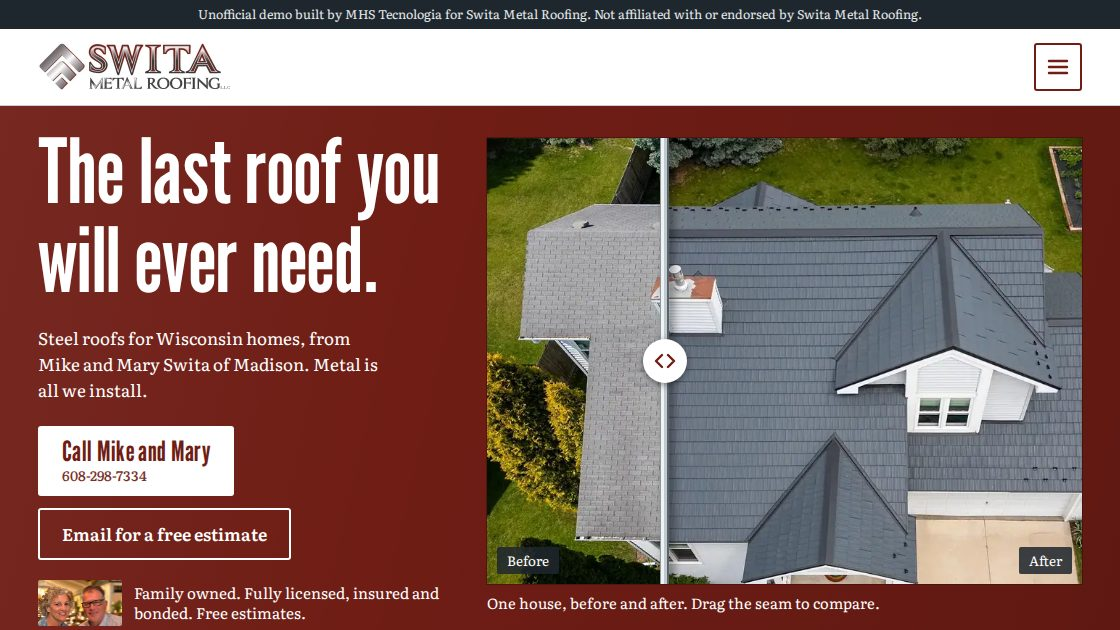
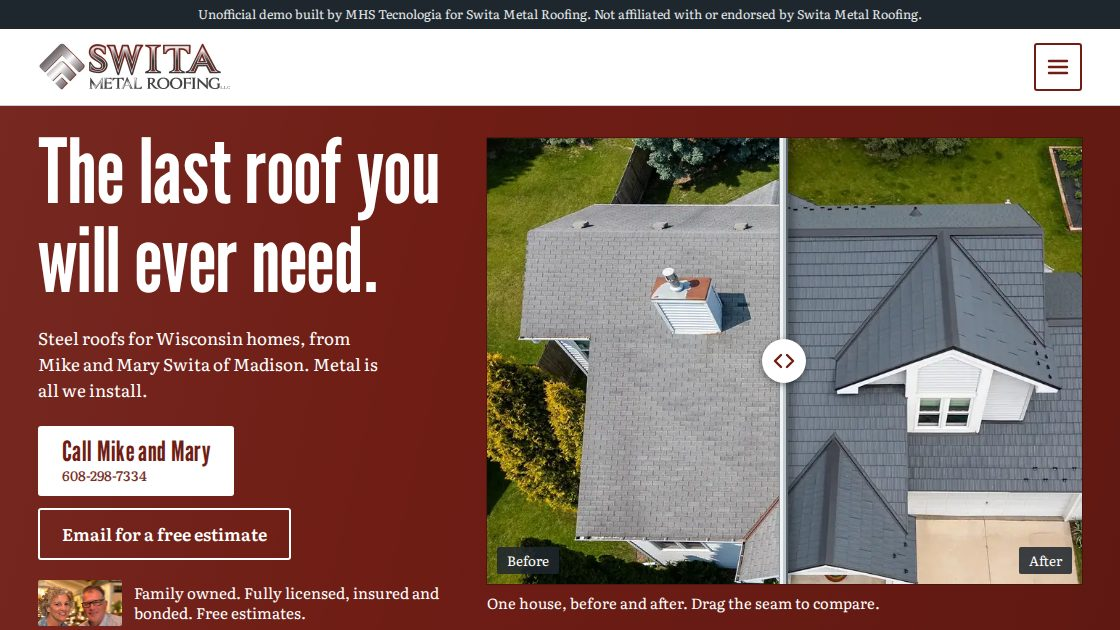
Previews: 62 ativos

Changed region(s): [[0.5625, 0.2111, 0.7188, 0.9349]]

diff --git a/swita-metal-roofing-madison-wi/index.html b/swita-metal-roofing-madison-wi/index.html
@@ -42,12 +42,12 @@
     <p class="owners"><img src="img/rosto-168.webp" srcset="img/rosto-168.webp 168w" sizes="84px" width="168" height="91" alt="Mary and Mike Swita" decoding="async" style="max-width:168px"><span>Family owned. Fully licensed, insured and bonded. Free estimates.</span></p>
   </div>
   <figure class="compare">
-    <div class="frame" style="--x:30%">
+    <div class="frame" style="--x:50%">
       <img class="after" src="img/depois-820.webp" srcset="img/depois-560.webp 560w, img/depois-820.webp 820w, img/depois-1198.webp 1198w" sizes="(max-width:860px) 100vw, 57vw" width="1198" height="898" alt="The same house from the air with a new dark gray steel roof" decoding="async" fetchpriority="high">
       <img class="before" src="img/antes-820.webp" srcset="img/antes-560.webp 560w, img/antes-820.webp 820w, img/antes-1198.webp 1198w" sizes="(max-width:860px) 100vw, 57vw" width="1198" height="898" alt="The same house from the air with its old, worn gray asphalt shingles" decoding="async">
-      <img class="strip" src="img/antes-820.webp" srcset="img/antes-560.webp 560w, img/antes-820.webp 820w, img/antes-1198.webp 1198w" sizes="(max-width:860px) 100vw, 57vw" width="1198" height="898" alt="" decoding="async" aria-hidden="true" style="--l:30.00%;--r:56.00%;--d:0.75s"><img class="strip" src="img/antes-820.webp" srcset="img/antes-560.webp 560w, img/antes-820.webp 820w, img/antes-1198.webp 1198w" sizes="(max-width:860px) 100vw, 57vw" width="1198" height="898" alt="" decoding="async" aria-hidden="true" style="--l:44.00%;--r:42.00%;--d:0.95s"><img class="strip" src="img/antes-820.webp" srcset="img/antes-560.webp 560w, img/antes-820.webp 820w, img/antes-1198.webp 1198w" sizes="(max-width:860px) 100vw, 57vw" width="1198" height="898" alt="" decoding="async" aria-hidden="true" style="--l:58.00%;--r:28.00%;--d:1.15s"><img class="strip" src="img/antes-820.webp" srcset="img/antes-560.webp 560w, img/antes-820.webp 820w, img/antes-1198.webp 1198w" sizes="(max-width:860px) 100vw, 57vw" width="1198" height="898" alt="" decoding="async" aria-hidden="true" style="--l:72.00%;--r:14.00%;--d:1.35s"><img class="strip" src="img/antes-820.webp" srcset="img/antes-560.webp 560w, img/antes-820.webp 820w, img/antes-1198.webp 1198w" sizes="(max-width:860px) 100vw, 57vw" width="1198" height="898" alt="" decoding="async" aria-hidden="true" style="--l:86.00%;--r:0.00%;--d:1.55s">
+      <img class="strip" src="img/antes-820.webp" srcset="img/antes-560.webp 560w, img/antes-820.webp 820w, img/antes-1198.webp 1198w" sizes="(max-width:860px) 100vw, 57vw" width="1198" height="898" alt="" decoding="async" aria-hidden="true" style="--l:50.00%;--r:40.00%;--d:0.75s"><img class="strip" src="img/antes-820.webp" srcset="img/antes-560.webp 560w, img/antes-820.webp 820w, img/antes-1198.webp 1198w" sizes="(max-width:860px) 100vw, 57vw" width="1198" height="898" alt="" decoding="async" aria-hidden="true" style="--l:60.00%;--r:30.00%;--d:0.95s"><img class="strip" src="img/antes-820.webp" srcset="img/antes-560.webp 560w, img/antes-820.webp 820w, img/antes-1198.webp 1198w" sizes="(max-width:860px) 100vw, 57vw" width="1198" height="898" alt="" decoding="async" aria-hidden="true" style="--l:70.00%;--r:20.00%;--d:1.15s"><img class="strip" src="img/antes-820.webp" srcset="img/antes-560.webp 560w, img/antes-820.webp 820w, img/antes-1198.webp 1198w" sizes="(max-width:860px) 100vw, 57vw" width="1198" height="898" alt="" decoding="async" aria-hidden="true" style="--l:80.00%;--r:10.00%;--d:1.35s"><img class="strip" src="img/antes-820.webp" srcset="img/antes-560.webp 560w, img/antes-820.webp 820w, img/antes-1198.webp 1198w" sizes="(max-width:860px) 100vw, 57vw" width="1198" height="898" alt="" decoding="async" aria-hidden="true" style="--l:90.00%;--r:0.00%;--d:1.55s">
       <span class="tag tag-b">Before</span><span class="tag tag-a">After</span>
-      <input type="range" min="0" max="100" value="30" aria-label="Slide to compare the old asphalt roof and the new steel roof">
+      <input type="range" min="0" max="100" value="50" aria-label="Slide to compare the old asphalt roof and the new steel roof">
       <span class="seam" aria-hidden="true"></span>
     </div>
     <figcaption>One house, before and after. Drag the seam to compare.</figcaption>

diff --git a/swita-metal-roofing-madison-wi/about.html b/swita-metal-roofing-madison-wi/about.html
@@ -51,13 +51,27 @@
   </div>
 </div></section>
 <section class="sec"><div class="wrap">
-  <div class="intro"><h2>Where we work</h2><p class="lead">We are based in Madison and serve the entire state of Wisconsin, including Appleton, Sheboygan, Fond du Lac, Oshkosh and the surrounding areas.</p></div>
+  <div class="split">
+    <div>
+      <h2>Where we work</h2>
+      <p class="lead">We are based in Madison and serve the entire state of Wisconsin, including:</p>
+      <ul class="ticks">
+        <li>Madison</li>
+        <li>Appleton</li>
+        <li>Sheboygan</li>
+        <li>Fond du Lac</li>
+        <li>Oshkosh</li>
+        <li>The surrounding areas</li>
+      </ul>
+    </div>
+    <figure><img src="img/vic-ranch-900.webp" srcset="img/vic-ranch-600.webp 600w, img/vic-ranch-900.webp 900w, img/vic-ranch-1400.webp 1400w" sizes="(max-width:860px) 92vw, 46vw" width="1400" height="1050" alt="Vicwest shingles on a long ranch home and its garages." loading="lazy" decoding="async"><figcaption>Vicwest shingles on a long ranch home and its garages.</figcaption></figure>
+  </div>
 </div></section>
 
 <section class="close"><div class="wrap close-in">
   <div>
-    <h2>Call Mike and Mary.</h2>
-    <p class="lead">They will set up your free estimate. You get an exact breakdown of the work, a guaranteed price and a timeline for the job.</p>
+    <h2>Talk to the family.</h2>
+    <p class="lead">Swita is family owned and operated. Call Mike and Mary to get started.</p>
     <a class="num" href="tel:+16082987334">608-298-7334</a><br>
     <a class="mail" href="mailto:info@switametalroofing.com?subject=Free%20metal%20roof%20estimate">info@switametalroofing.com</a>
     <p>Mon&ndash;Thurs 8:30&ndash;4:30. 3369 Basil Drive, Madison, WI 53704.</p>

diff --git a/swita-metal-roofing-madison-wi/steel-shingles.html b/swita-metal-roofing-madison-wi/steel-shingles.html
@@ -57,7 +57,7 @@
   <div class="split" id="edco">
     <div>
       <h3>EDCO</h3>
-      <p>Medium-profile steel shingles that resemble slate or shake, with just the right amount of texture. EDCO has served homeowners since 1946, and its products are backed by a lifetime, non-prorated warranty.</p>
+      <p>Medium-profile steel shingles that resemble slate or shake, with just the right amount of texture. EDCO has served homeowners since 1946, and its products are backed by a lifetime, non-prorated limited warranty.</p>
       <p><em>&ldquo;Swita Metal Roofing did an excellent job on our new EDCO premium metal roof.&rdquo;</em><br>Mark, Google review</p>
     </div>
     <figure><img src="img/edco-house-900.webp" srcset="img/edco-house-600.webp 600w, img/edco-house-900.webp 900w" sizes="(max-width:860px) 92vw, 46vw" width="900" height="569" alt="Medium-profile steel shingles on a two-story home." loading="lazy" decoding="async"><figcaption>Medium-profile steel shingles on a two-story home.</figcaption></figure>
@@ -88,8 +88,8 @@
 
 <section class="close"><div class="wrap close-in">
   <div>
-    <h2>Call Mike and Mary.</h2>
-    <p class="lead">They will set up your free estimate. You get an exact breakdown of the work, a guaranteed price and a timeline for the job.</p>
+    <h2>See the colors in person.</h2>
+    <p class="lead">Call to request samples, or set up a free estimate at your home.</p>
     <a class="num" href="tel:+16082987334">608-298-7334</a><br>
     <a class="mail" href="mailto:info@switametalroofing.com?subject=Free%20metal%20roof%20estimate">info@switametalroofing.com</a>
     <p>Mon&ndash;Thurs 8:30&ndash;4:30. 3369 Basil Drive, Madison, WI 53704.</p>

diff --git a/swita-metal-roofing-madison-wi/how-it-works.html b/swita-metal-roofing-madison-wi/how-it-works.html
@@ -74,13 +74,13 @@
 
 <section class="close"><div class="wrap close-in">
   <div>
-    <h2>Call Mike and Mary.</h2>
-    <p class="lead">They will set up your free estimate. You get an exact breakdown of the work, a guaranteed price and a timeline for the job.</p>
+    <h2>Start with the free estimate.</h2>
+    <p class="lead">An average appointment takes 60&ndash;90 minutes. Call to set yours up.</p>
     <a class="num" href="tel:+16082987334">608-298-7334</a><br>
     <a class="mail" href="mailto:info@switametalroofing.com?subject=Free%20metal%20roof%20estimate">info@switametalroofing.com</a>
     <p>Mon&ndash;Thurs 8:30&ndash;4:30. 3369 Basil Drive, Madison, WI 53704.</p>
   </div>
-  <figure><img src="img/seam-house-900.webp" srcset="img/seam-house-600.webp 600w, img/seam-house-900.webp 900w, img/seam-house-1400.webp 1400w" sizes="(max-width:860px) 92vw, 46vw" width="1400" height="1050" alt="Standing seam on a two-story home." loading="lazy" decoding="async"><figcaption>Standing seam on a two-story home.</figcaption></figure>
+  <figure><img src="img/vic-gilman-900.webp" srcset="img/vic-gilman-600.webp 600w, img/vic-gilman-900.webp 900w, img/vic-gilman-1400.webp 1400w" sizes="(max-width:860px) 92vw, 46vw" width="1400" height="1049" alt="Light gray Vicwest shingles on a ranch home." loading="lazy" decoding="async"><figcaption>Light gray Vicwest shingles on a ranch home.</figcaption></figure>
 </div></section>
 </main>
 <footer class="foot">

diff --git a/swita-metal-roofing-madison-wi/reviews.html b/swita-metal-roofing-madison-wi/reviews.html
@@ -36,12 +36,12 @@
 <section class="close"><div class="wrap close-in">
   <div>
     <h2>Be the next one.</h2>
-    <p class="lead">They will set up your free estimate. You get an exact breakdown of the work, a guaranteed price and a timeline for the job.</p>
+    <p class="lead">Call Mike and Mary, and ask them anything you read here.</p>
     <a class="num" href="tel:+16082987334">608-298-7334</a><br>
     <a class="mail" href="mailto:info@switametalroofing.com?subject=Free%20metal%20roof%20estimate">info@switametalroofing.com</a>
     <p>Mon&ndash;Thurs 8:30&ndash;4:30. 3369 Basil Drive, Madison, WI 53704.</p>
   </div>
-  <figure><img src="img/vic-gilman-900.webp" srcset="img/vic-gilman-600.webp 600w, img/vic-gilman-900.webp 900w, img/vic-gilman-1400.webp 1400w" sizes="(max-width:860px) 92vw, 46vw" width="1400" height="1049" alt="Light gray Vicwest shingles on a ranch home." loading="lazy" decoding="async"><figcaption>Light gray Vicwest shingles on a ranch home.</figcaption></figure>
+  <figure><img src="img/vic-black-air-900.webp" srcset="img/vic-black-air-600.webp 600w, img/vic-black-air-900.webp 900w, img/vic-black-air-1400.webp 1400w" sizes="(max-width:860px) 92vw, 46vw" width="1400" height="1050" alt="An addition and the main roof, together." loading="lazy" decoding="async"><figcaption>An addition and the main roof, together.</figcaption></figure>
 </div></section>
 </main>
 <footer class="foot">

diff --git a/swita-metal-roofing-madison-wi/contact.html b/swita-metal-roofing-madison-wi/contact.html
@@ -52,16 +52,6 @@
   </div>
 </div></section>
 
-<section class="close"><div class="wrap close-in">
-  <div>
-    <h2>The phone is the fastest way.</h2>
-    <p class="lead">Mike and Mary will set up your free estimate.</p>
-    <a class="num" href="tel:+16082987334">608-298-7334</a><br>
-    <a class="mail" href="mailto:info@switametalroofing.com?subject=Free%20metal%20roof%20estimate">info@switametalroofing.com</a>
-    <p>Mon&ndash;Thurs 8:30&ndash;4:30. 3369 Basil Drive, Madison, WI 53704.</p>
-  </div>
-  <figure><img src="img/vic-northport-900.webp" srcset="img/vic-northport-600.webp 600w, img/vic-northport-900.webp 900w, img/vic-northport-1400.webp 1400w" sizes="(max-width:860px) 92vw, 46vw" width="1400" height="933" alt="Vicwest shingles on a ranch home with a front porch." loading="lazy" decoding="async"><figcaption>Vicwest shingles on a ranch home with a front porch.</figcaption></figure>
-</div></section>
 </main>
 <footer class="foot">
   <div class="foot-plate"><div class="wrap"><a href="index.html" aria-label="Swita Metal Roofing home" style="display:inline-block"><img src="img/logo-388.webp" width="388" height="98" alt="Swita Metal Roofing logo" loading="lazy"></a></div></div>

diff --git a/swita-metal-roofing-madison-wi/standing-seam.html b/swita-metal-roofing-madison-wi/standing-seam.html
@@ -70,8 +70,8 @@
 
 <section class="close"><div class="wrap close-in">
   <div>
-    <h2>Call Mike and Mary.</h2>
-    <p class="lead">They will set up your free estimate. You get an exact breakdown of the work, a guaranteed price and a timeline for the job.</p>
+    <h2>Thinking about standing seam?</h2>
+    <p class="lead">We will assess and measure your roof, then give you a guaranteed price.</p>
     <a class="num" href="tel:+16082987334">608-298-7334</a><br>
     <a class="mail" href="mailto:info@switametalroofing.com?subject=Free%20metal%20roof%20estimate">info@switametalroofing.com</a>
     <p>Mon&ndash;Thurs 8:30&ndash;4:30. 3369 Basil Drive, Madison, WI 53704.</p>

diff --git a/swita-metal-roofing-madison-wi/projects.html b/swita-metal-roofing-madison-wi/projects.html
@@ -45,7 +45,7 @@
 <section class="close"><div class="wrap close-in">
   <div>
     <h2>Want one like these?</h2>
-    <p class="lead">They will set up your free estimate. You get an exact breakdown of the work, a guaranteed price and a timeline for the job.</p>
+    <p class="lead">Tell Mike and Mary about your home. They will help you choose the style that looks best on it.</p>
     <a class="num" href="tel:+16082987334">608-298-7334</a><br>
     <a class="mail" href="mailto:info@switametalroofing.com?subject=Free%20metal%20roof%20estimate">info@switametalroofing.com</a>
     <p>Mon&ndash;Thurs 8:30&ndash;4:30. 3369 Basil Drive, Madison, WI 53704.</p>
